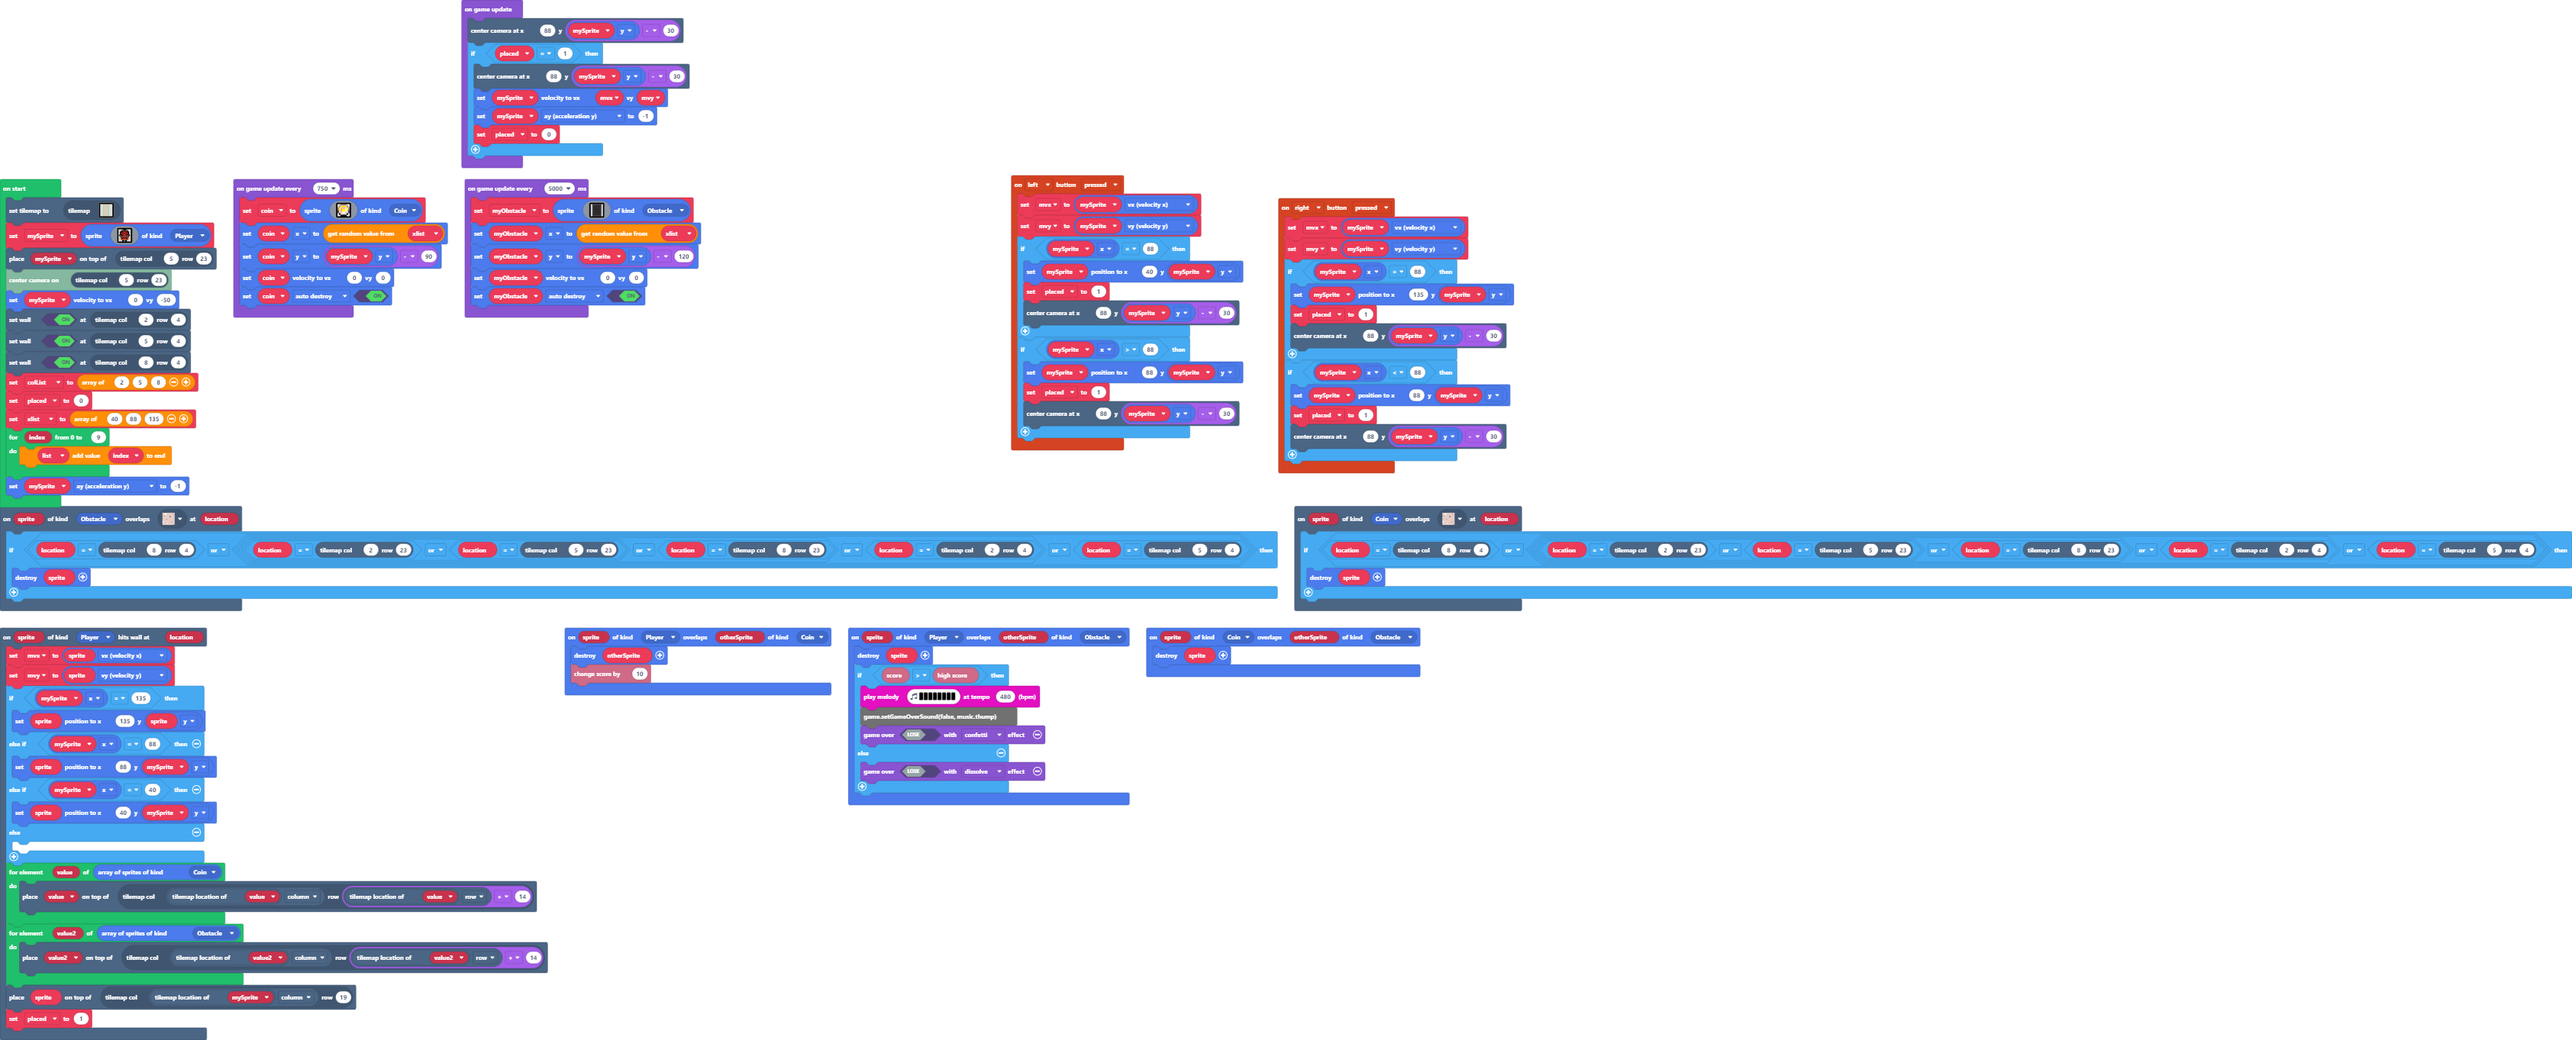
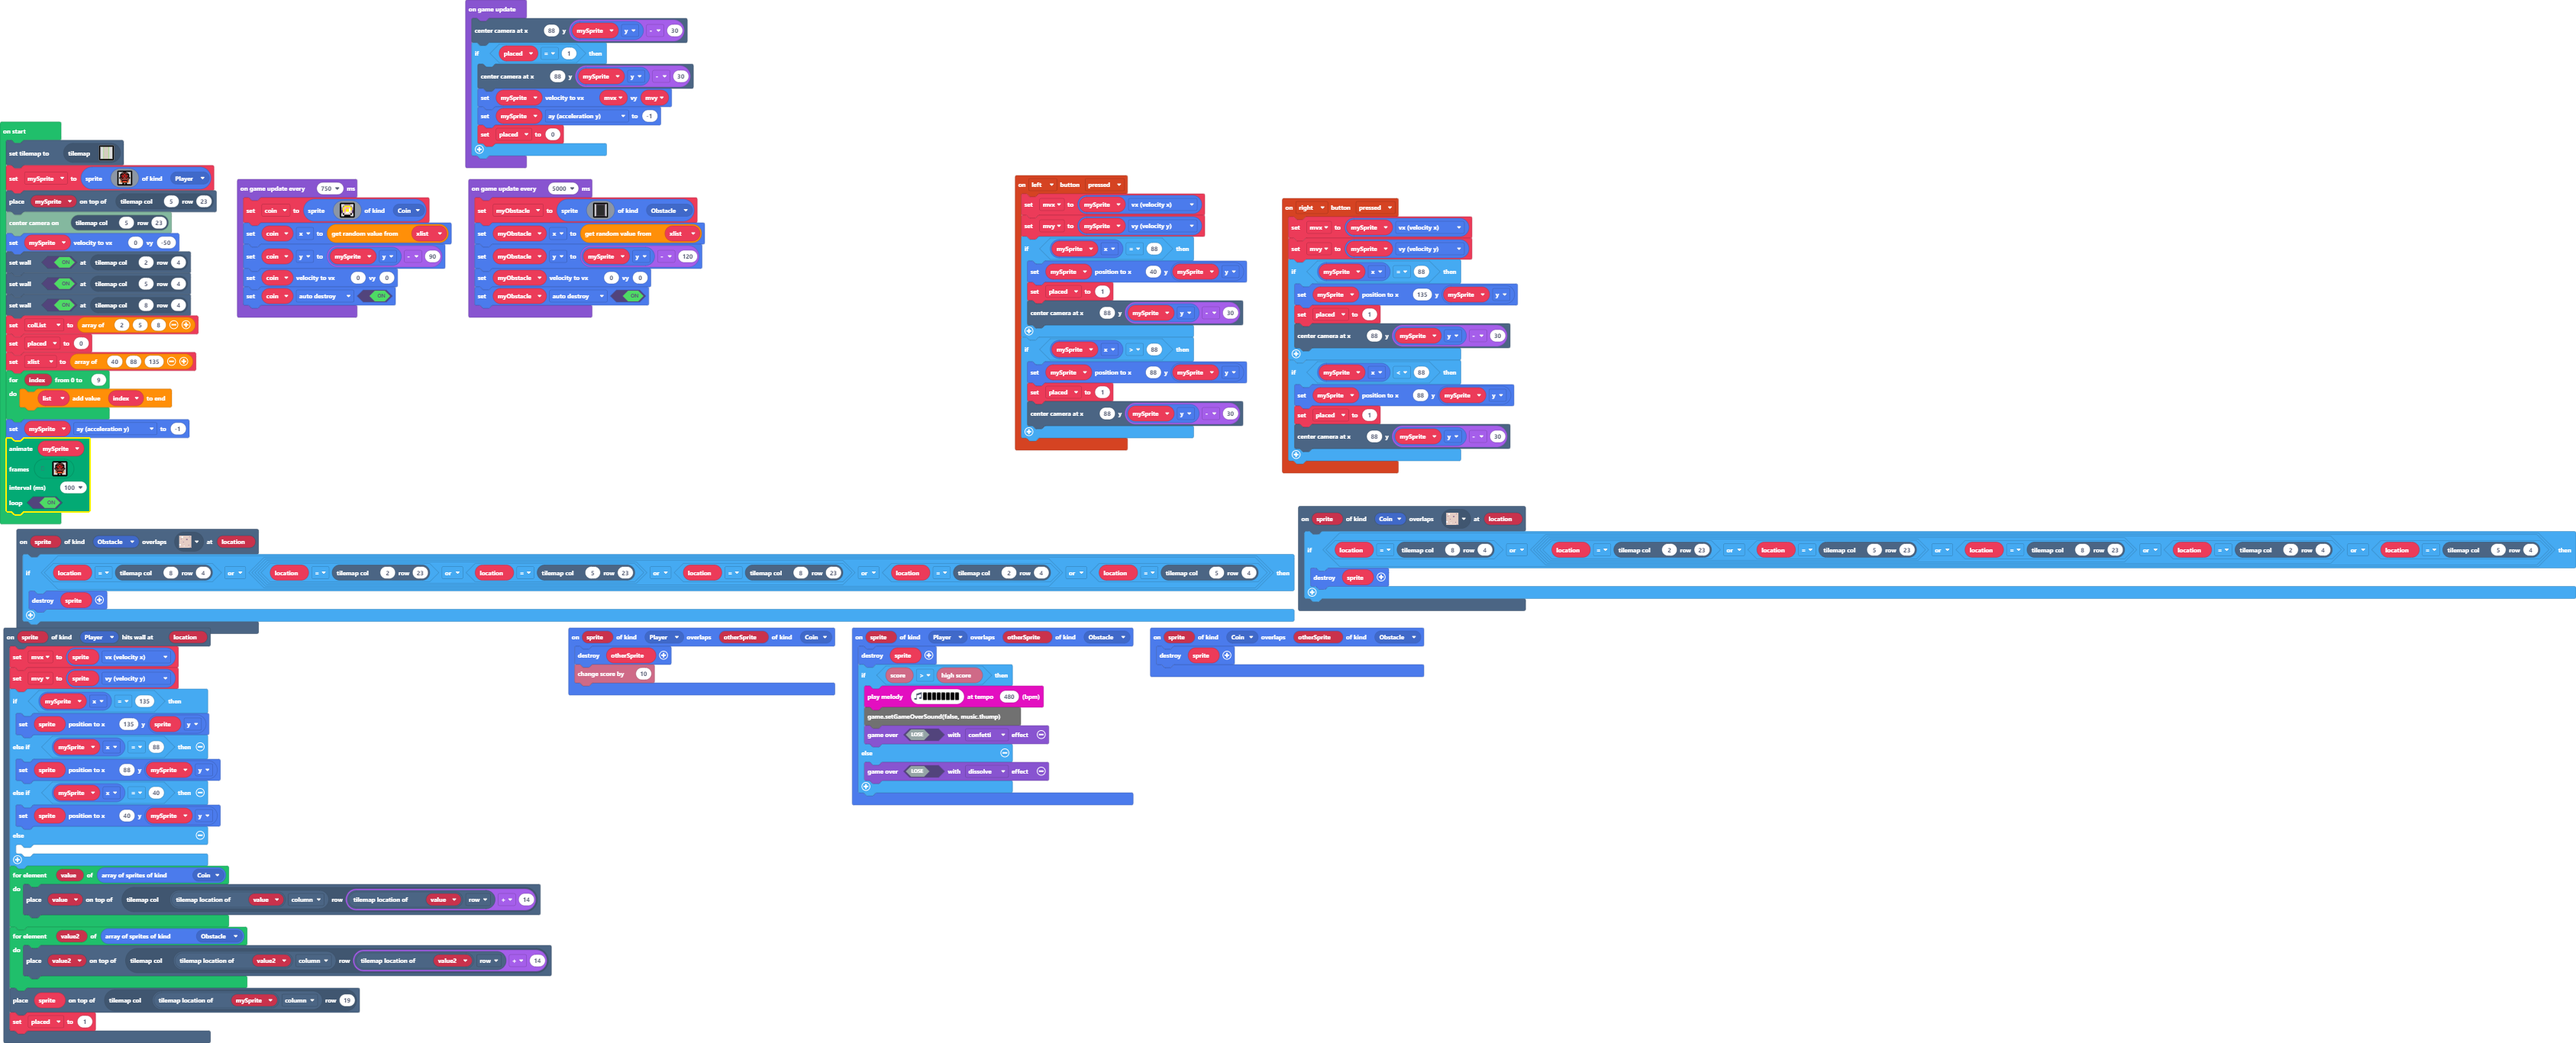
Successfully Added Character Animation

Changed region(s): [[0.0, 0.0, 1.0, 0.9861], [0.374, 0.1541, 0.5922, 0.4622]]

diff --git a/main.ts b/main.ts
@@ -100,6 +100,80 @@ for (let index = 0; index <= 9; index++) {
     list.push(index)
 }
 mySprite.ay = -1
+animation.runImageAnimation(
+mySprite,
+[img`
+    . . . . . . f f f f . . . . . . 
+    . . . . f f e e e e f f . . . . 
+    . . . f e e e f f e e e f . . . 
+    . . f f f f f 2 2 f f f f f . . 
+    . . f f e 2 e 2 2 e 2 e f f . . 
+    . . f e 2 f 2 f f 2 f 2 e f . . 
+    . . f f f 2 2 e e 2 2 f f f . . 
+    . f f e f 2 f e e f 2 f e f f . 
+    . f e e f f e e e e f e e e f . 
+    . . f e e e e e e e e e e f . . 
+    . . . f e e e e e e e e f . . . 
+    . . e 4 f f f f f f f f 4 e . . 
+    . . 4 d f 2 2 2 2 2 2 f d 4 . . 
+    . . 4 4 f 4 4 4 4 4 4 f 4 4 . . 
+    . . . . . f f f f f f . . . . . 
+    . . . . . f f . . f f . . . . . 
+    `,img`
+    . . . . . . . . . . . . . . . . 
+    . . . . . . f f f f . . . . . . 
+    . . . . f f e e e e f f . . . . 
+    . . . f e e e f f e e e f . . . 
+    . . . f f f f 2 2 f f f f . . . 
+    . . f f e 2 e 2 2 e 2 e f f . . 
+    . . f e 2 f 2 f f f 2 f e f . . 
+    . . f f f 2 f e e 2 2 f f f . . 
+    . . f e 2 f f e e 2 f e e f . . 
+    . f f e f f e e e f e e e f f . 
+    . f f e e e e e e e e e e f f . 
+    . . . f e e e e e e e e f . . . 
+    . . . e f f f f f f f f 4 e . . 
+    . . . 4 f 2 2 2 2 2 e d d 4 . . 
+    . . . e f f f f f f e e 4 . . . 
+    . . . . f f f . . . . . . . . . 
+    `,img`
+    . . . . . . f f f f . . . . . . 
+    . . . . f f e e e e f f . . . . 
+    . . . f e e e f f e e e f . . . 
+    . . f f f f f 2 2 f f f f f . . 
+    . . f f e 2 e 2 2 e 2 e f f . . 
+    . . f e 2 f 2 f f 2 f 2 e f . . 
+    . . f f f 2 2 e e 2 2 f f f . . 
+    . f f e f 2 f e e f 2 f e f f . 
+    . f e e f f e e e e f e e e f . 
+    . . f e e e e e e e e e e f . . 
+    . . . f e e e e e e e e f . . . 
+    . . e 4 f f f f f f f f 4 e . . 
+    . . 4 d f 2 2 2 2 2 2 f d 4 . . 
+    . . 4 4 f 4 4 4 4 4 4 f 4 4 . . 
+    . . . . . f f f f f f . . . . . 
+    . . . . . f f . . f f . . . . . 
+    `,img`
+    . . . . . . . . . . . . . . . . 
+    . . . . . . f f f f . . . . . . 
+    . . . . f f e e e e f f . . . . 
+    . . . f e e e f f e e e f . . . 
+    . . . f f f f 2 2 f f f f . . . 
+    . . f f e 2 e 2 2 e 2 e f f . . 
+    . . f e f 2 f f f 2 f 2 e f . . 
+    . . f f f 2 2 e e f 2 f f f . . 
+    . . f e e f 2 e e f f 2 e f . . 
+    . f f e e e f e e e f f e f f . 
+    . f f e e e e e e e e e e f f . 
+    . . . f e e e e e e e e f . . . 
+    . . e 4 f f f f f f f f e . . . 
+    . . 4 d d e 2 2 2 2 2 f 4 . . . 
+    . . . 4 e e f f f f f f e . . . 
+    . . . . . . . . . f f f . . . . 
+    `],
+100,
+true
+)
 game.onUpdate(function () {
     scene.centerCameraAt(88, mySprite.y - 30)
     if (placed == 1) {
